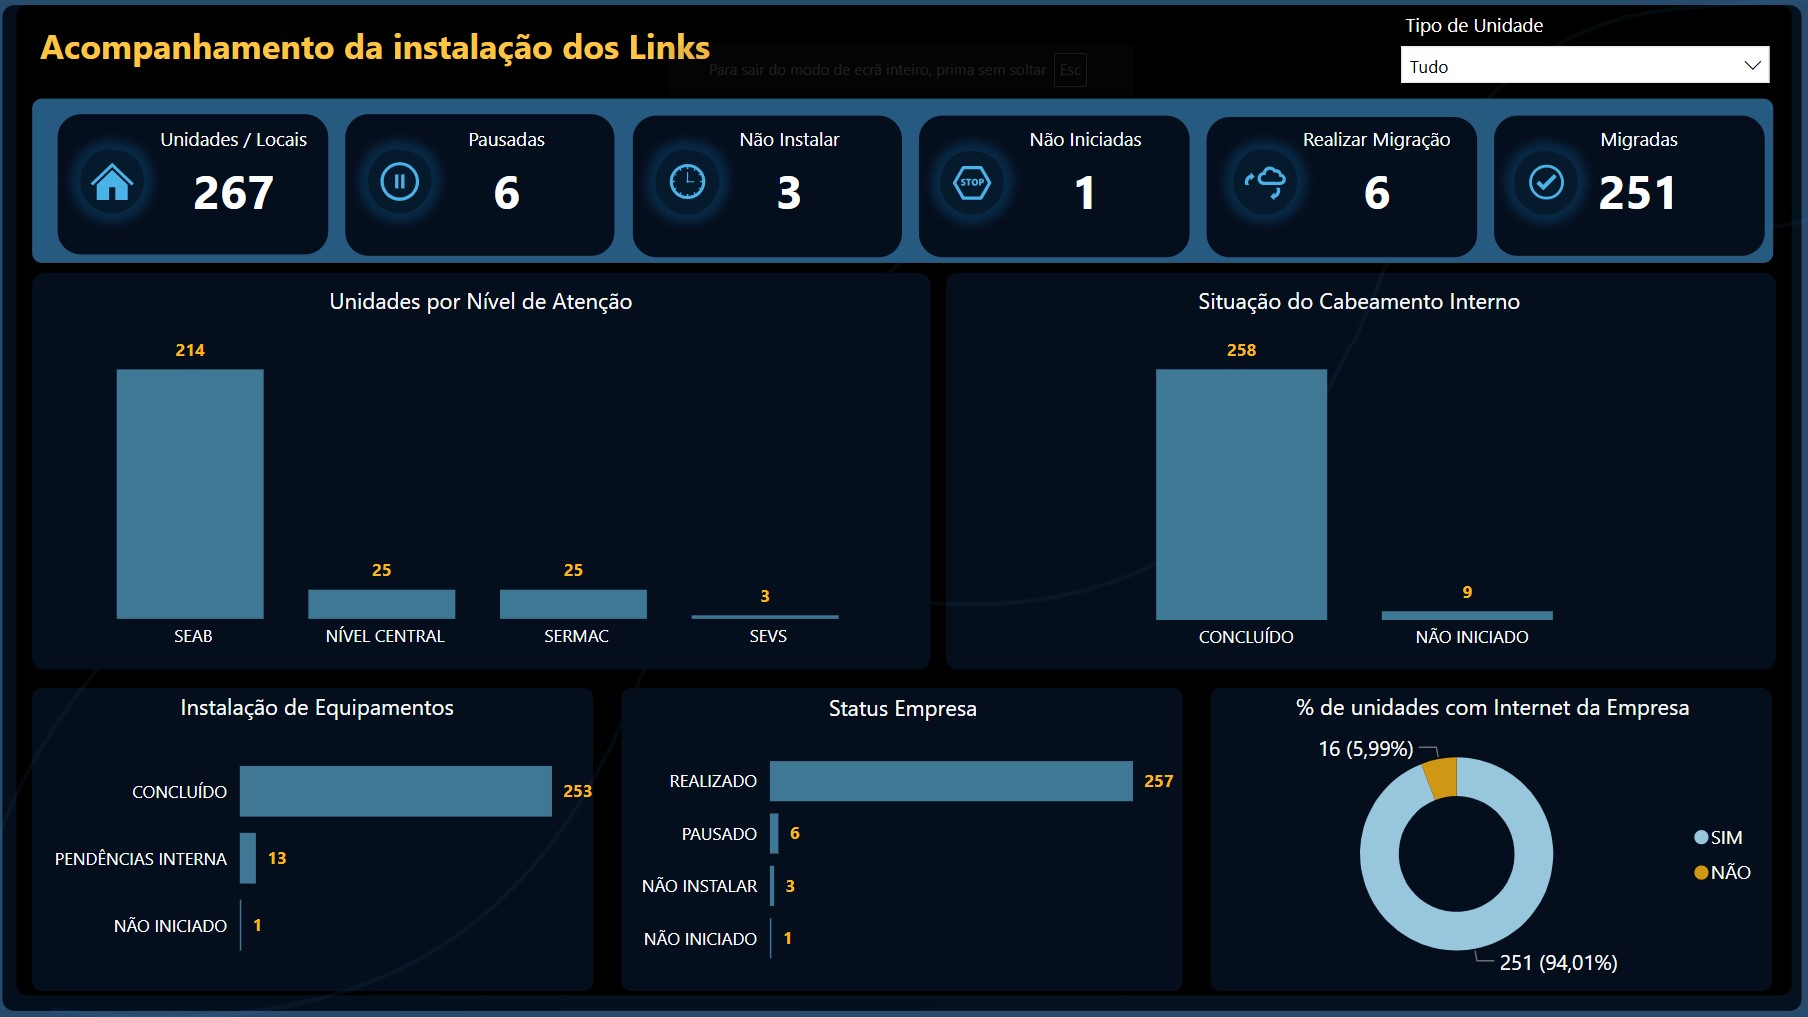
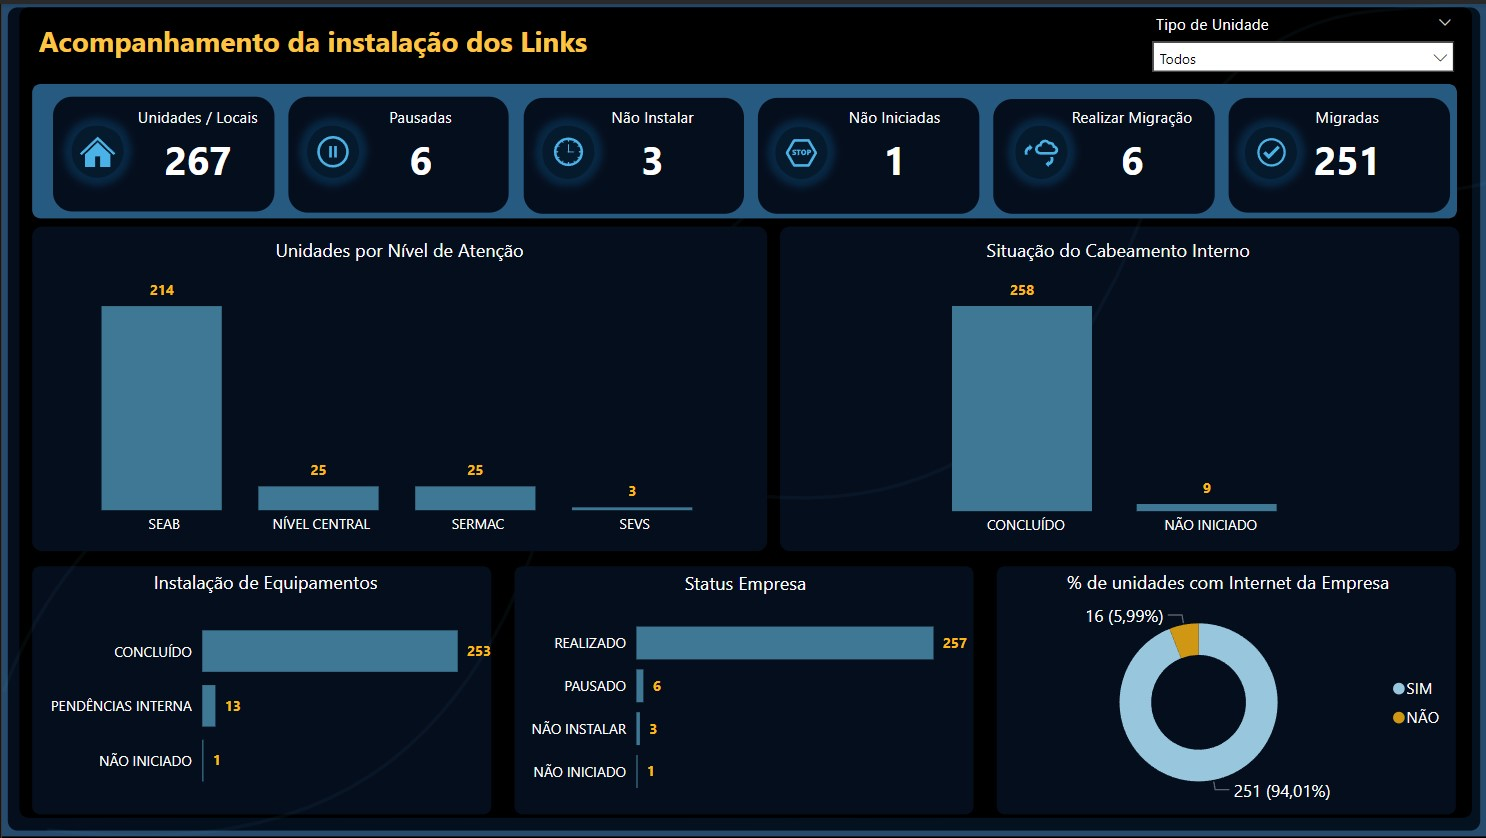
update: "substituicao da imagem do work"

diff --git a/index.html b/index.html
@@ -152,7 +152,7 @@
                    
                     <li class="card">
                         <div class="box">
-                            <img src="media/works/dash_instalaçoes.png" alt="painel">
+                            <img src="media/works/dash_instalaçoes.jpg" alt="painel">
                             <div class="info-card">
                                 <h3>Dashboard de Instalações</h3>
                                 <P>Desenvolvido em Power BI.</P>
